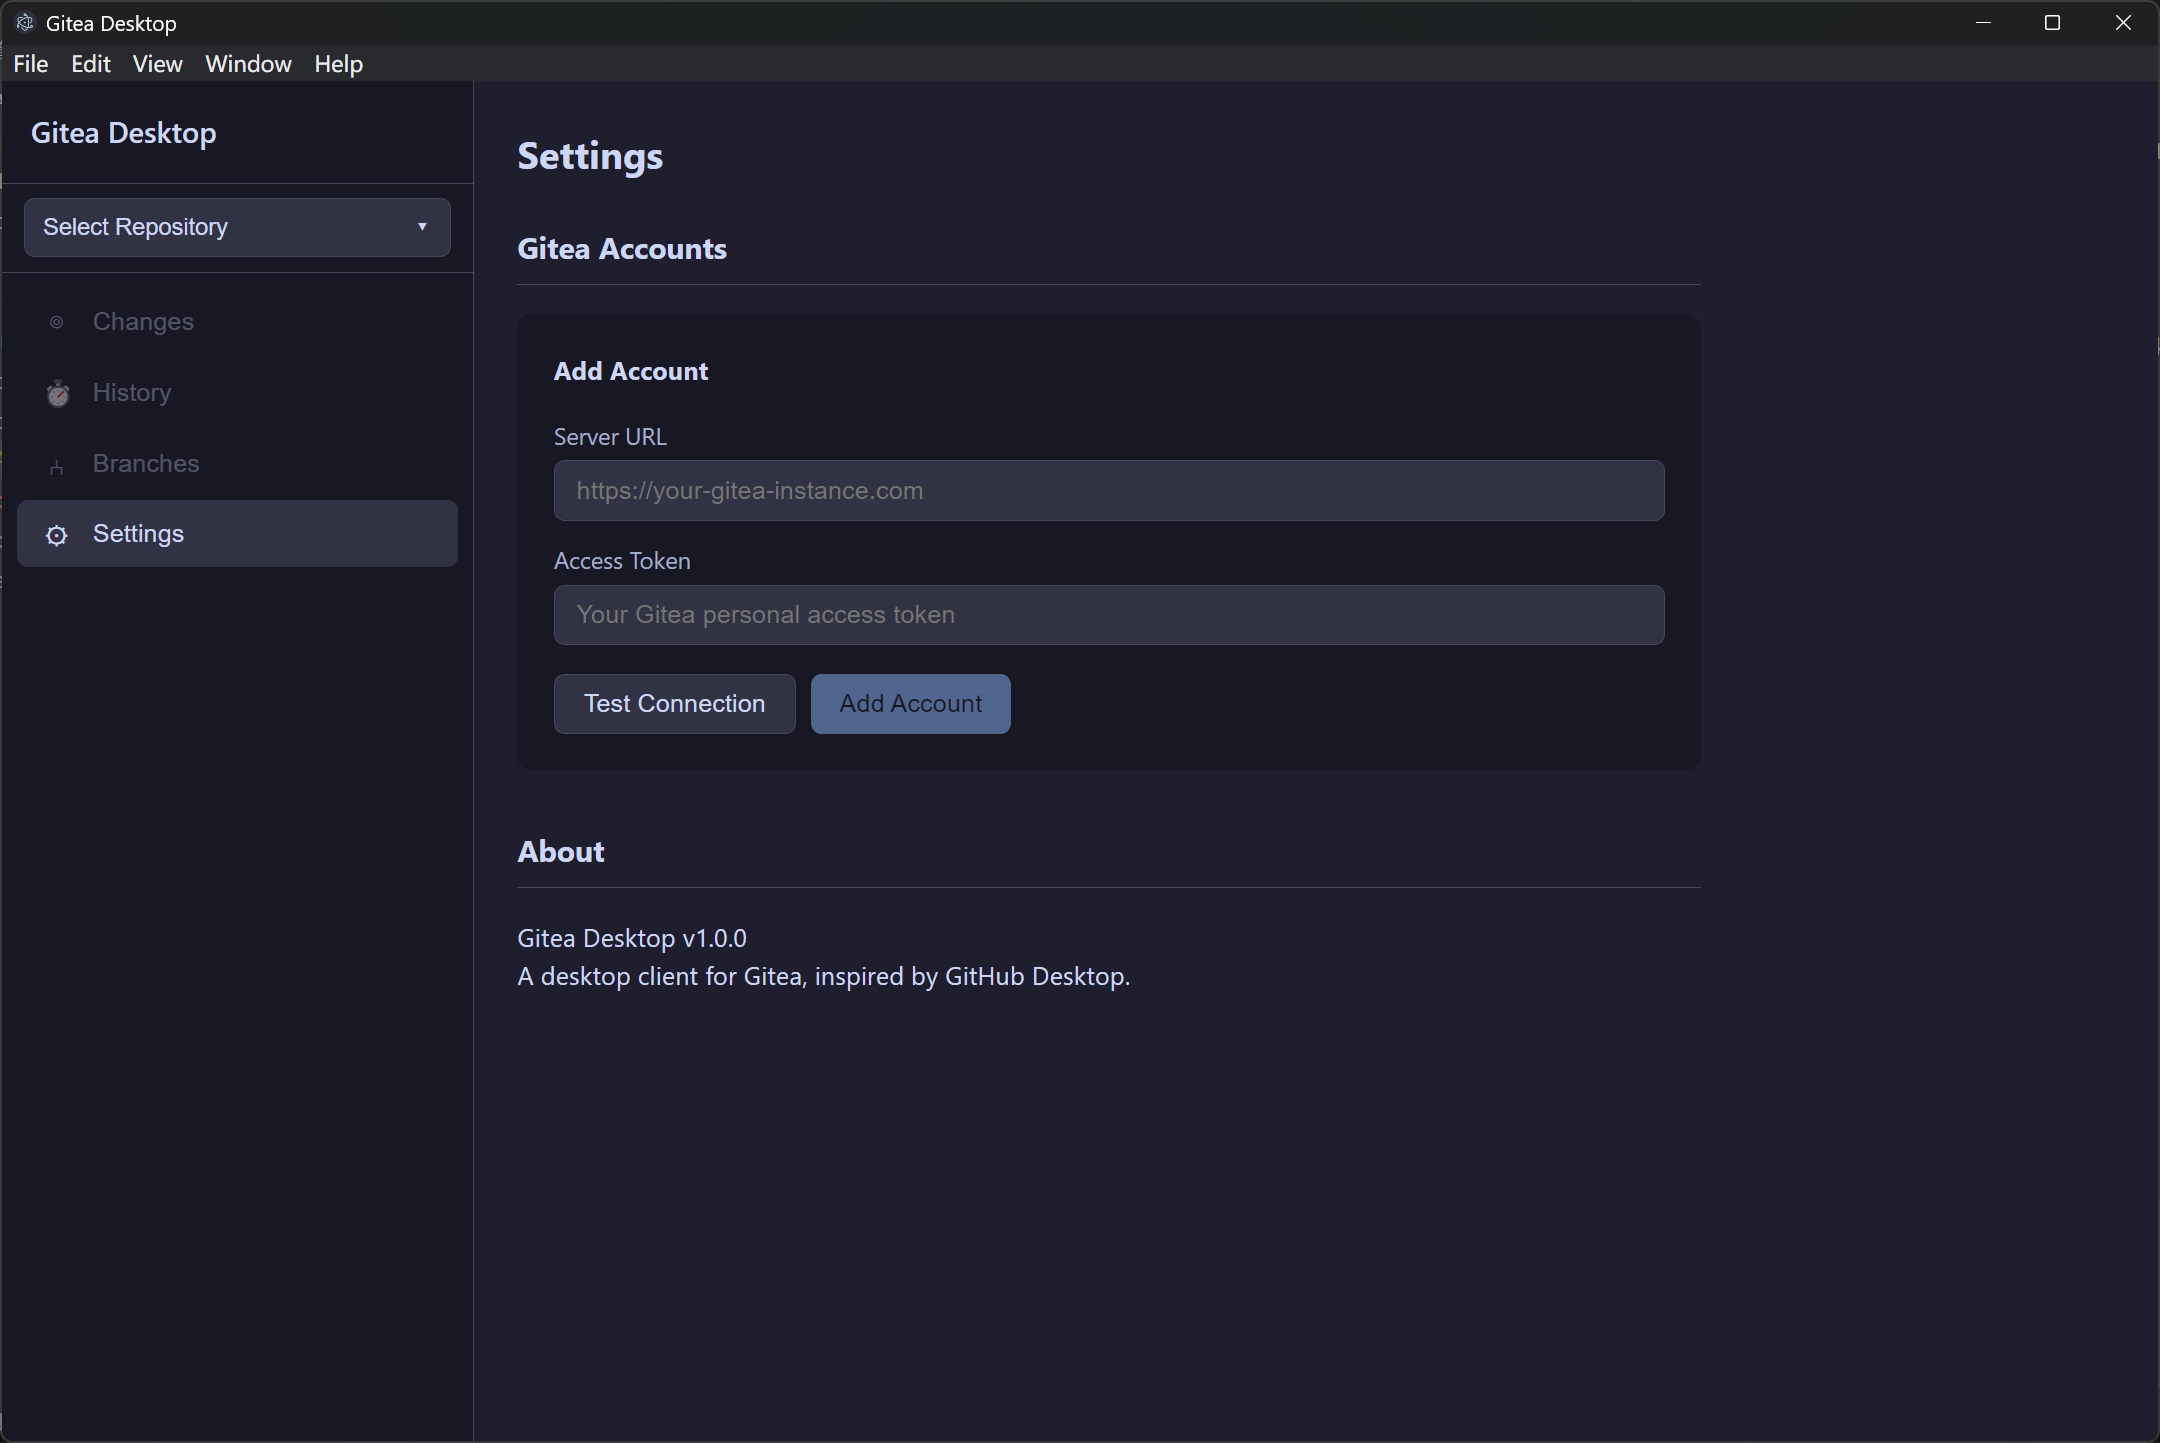
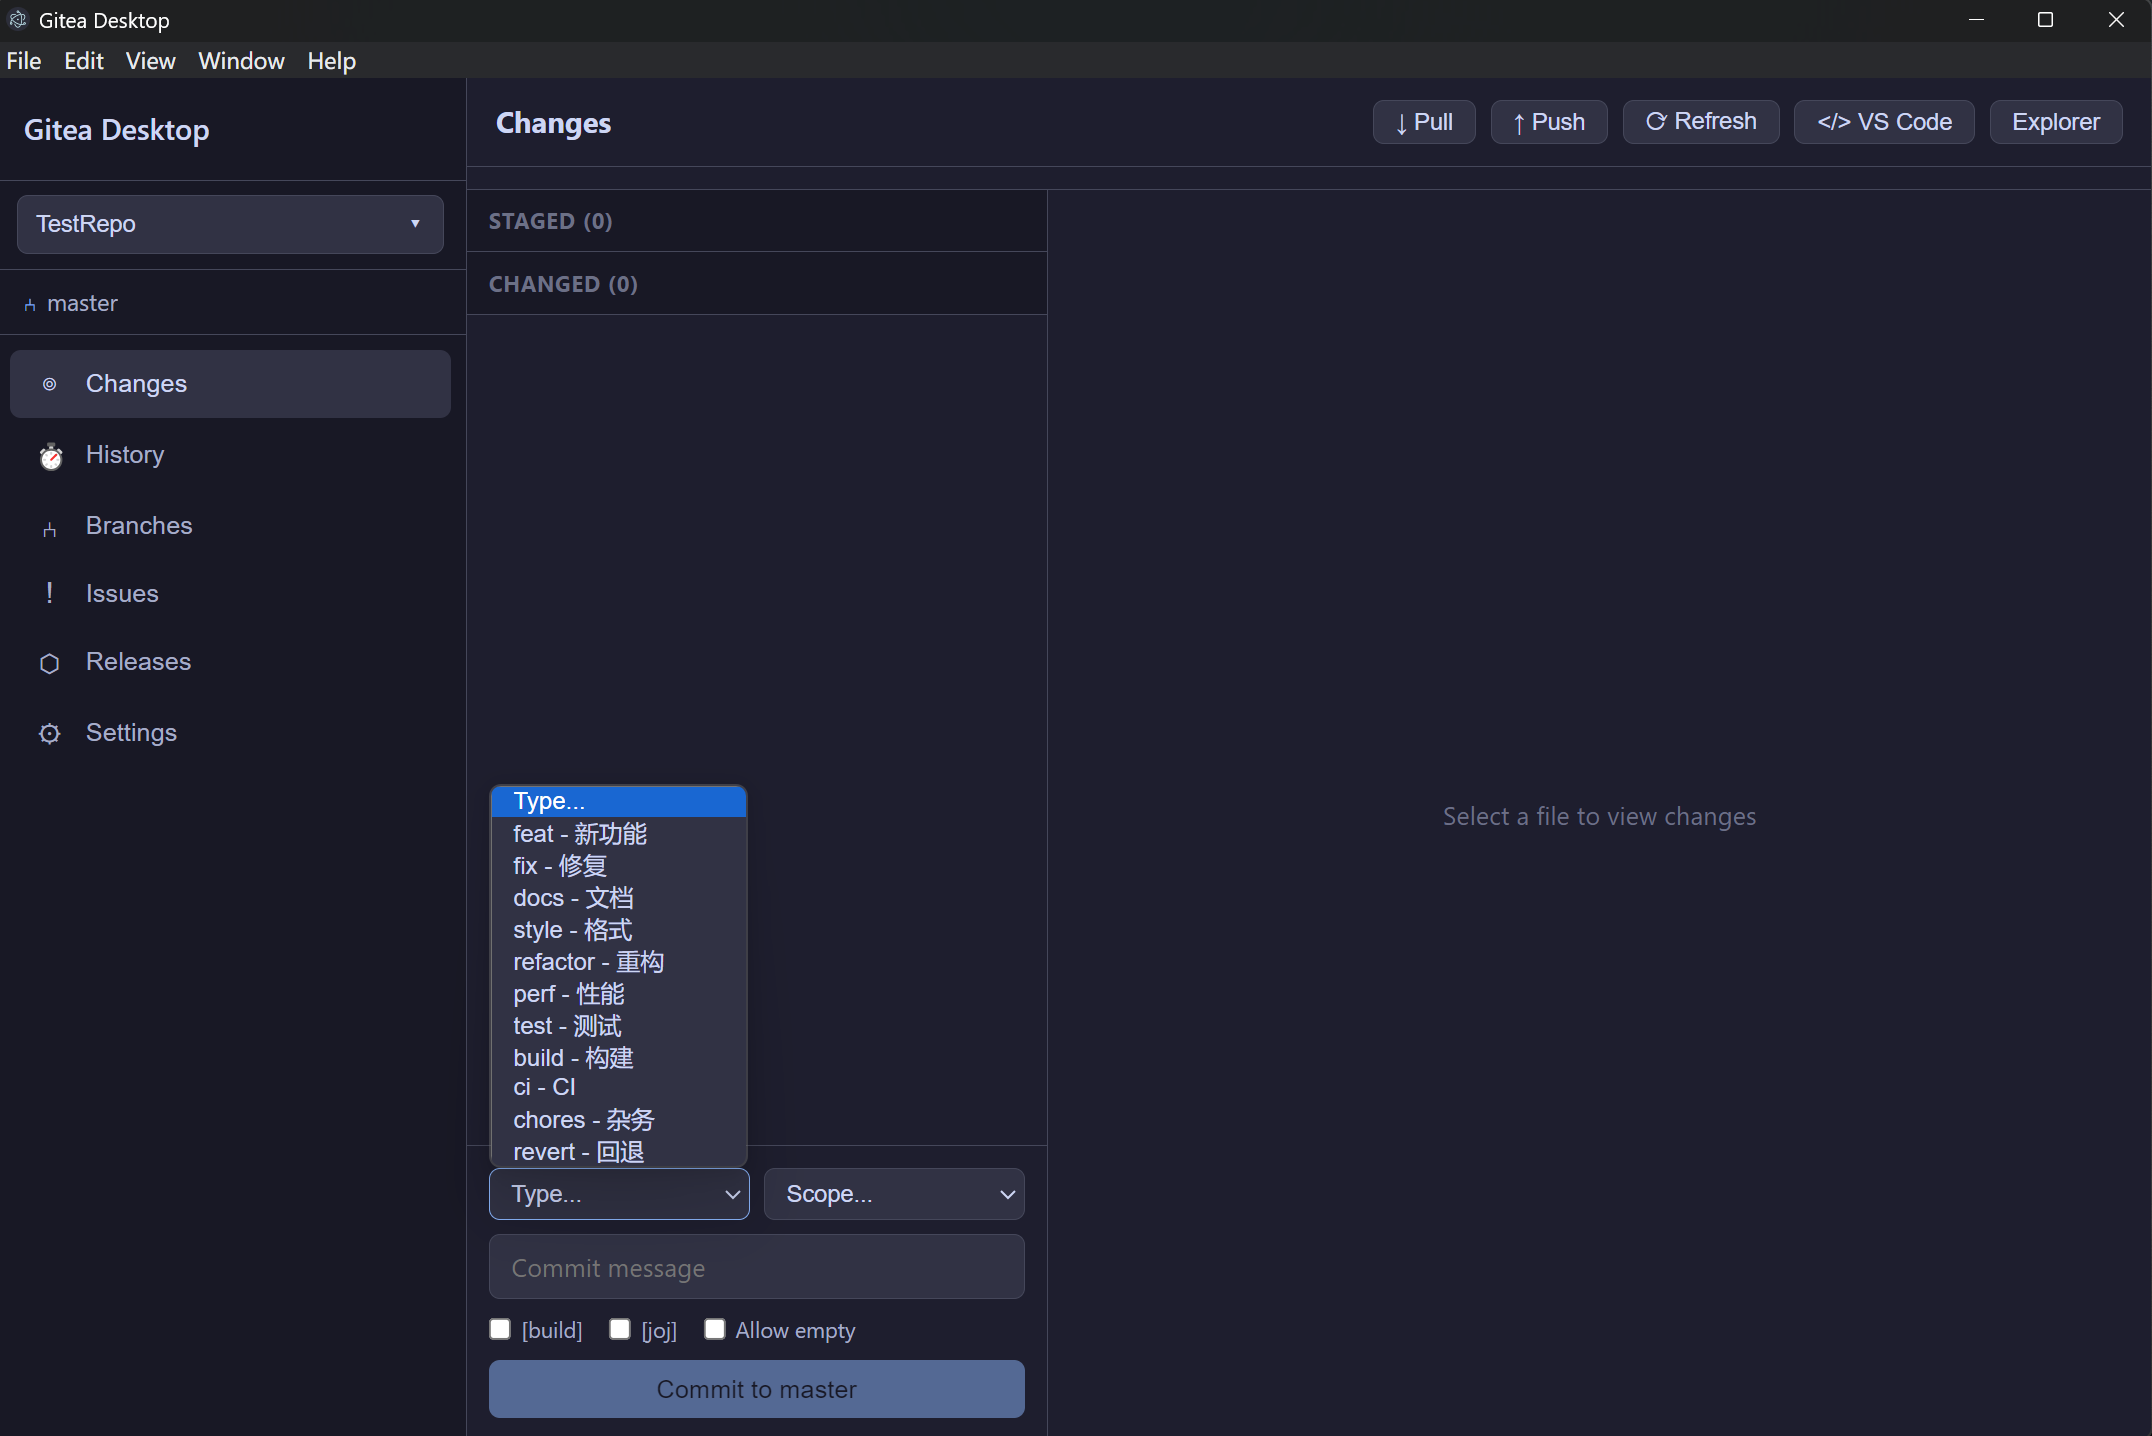
docs: Why this Gitea Desktop

diff --git a/README.md b/README.md
@@ -6,6 +6,10 @@ A desktop Git client for [Gitea](https://gitea.io) servers, inspired by GitHub D
 ![Electron](https://img.shields.io/badge/Electron-28-47848F)
 ![License: MIT](https://img.shields.io/badge/license-MIT-green)
 
+## Why For SJTU GC？
+
+As a GC engr101 student, our homework and project are all upload onto Focs Gitea Server. Meanwhile we all need a formatted "commit message" for JOJ to grade our homework. For convenience, I designed this application, **which can and only can push with message containing "type" "scope" "build/build joj"**. This application comes **pre-installed with 11 types and 10 scopes** (feat fix docs style refactor perf test build ci chores revert;p1 p2 hw1 hw2 hw3 hw4 hw5 hw6 hw7 hw8). This is the difference between this Gitea Desktop and a normal Gitea Desktop.
+
 ## Features
 
 - **Gitea Integration** — Connect to any Gitea instance with token-based authentication. Browse, search, and clone your repositories.